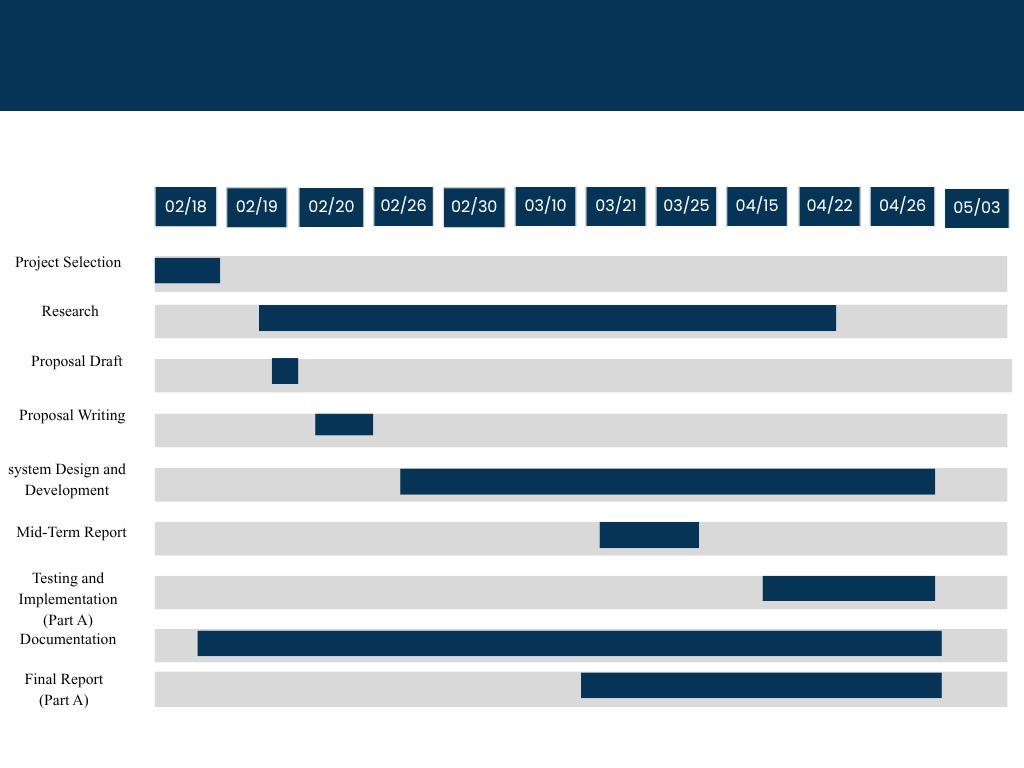
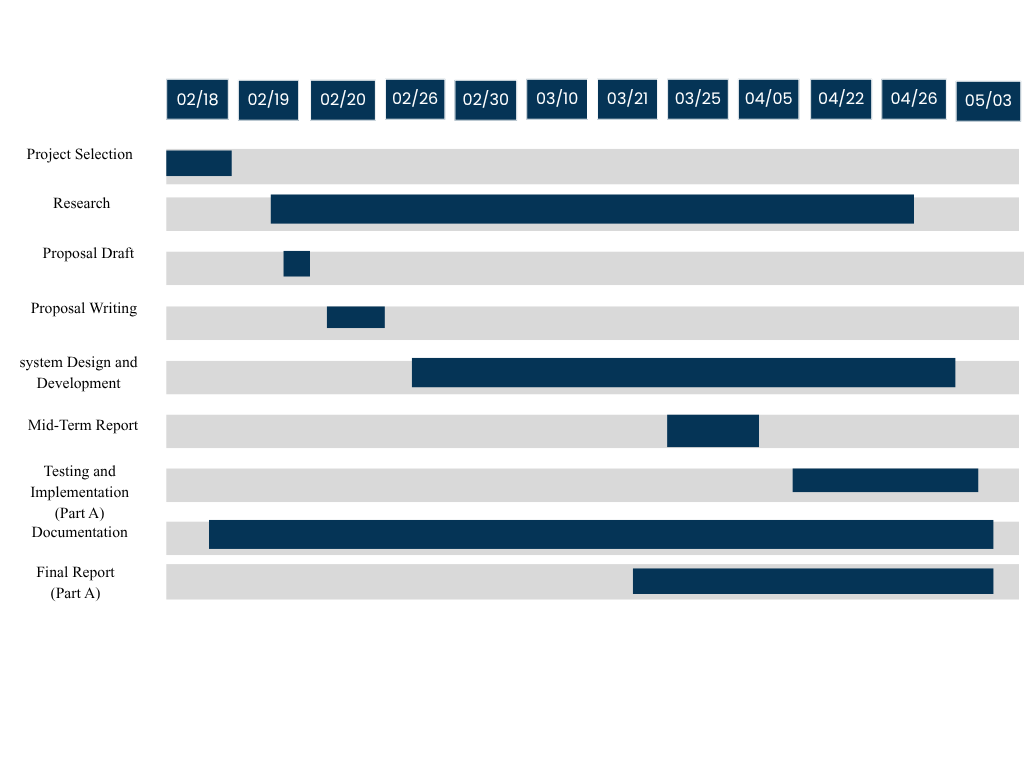
mid report changes

diff --git a/src/chapters/resultAndAnalysis.tex b/src/chapters/resultAndAnalysis.tex
@@ -1,5 +1,77 @@
 
 \chapter{Expected Results and Evaluation Metrics}
+\section{Methodology Implementation}
+\subsection{Geometric camera Callibration}
+Camera calibration has been completed for all three cameras, using [N] checkerboard image pairs per camera. Table~\ref{tab:reprojection_error} reports the resulting mean reprojection error per camera, all within acceptable bounds for accurate triangulation.
+\begin{table}[ht]
+\centering
+\caption{Camera Reprojection Errors}
+\label{tab:reprojection_error}
+\begin{tabular}{lc}
+\toprule
+\textbf{Camera} & \textbf{Projection Error (px)} \\
+\midrule
+Camera 1 (Front) & X.XX \\
+Camera 2 (Left)  & X.XX \\
+Camera 3 (Right) & X.XX \\
+\bottomrule
+\end{tabular}
+\end{table}
+
+\subsection{Parallel Multi-Modal Keypoint Extraction}
+ MediaPipe Pose Landmarker and MediaPipe Hands have been integrated and tested across all three synchronized camera streams. Live landmark overlays confirming correct detection across all views are shown in Figure 4-6(same ss). The pipeline retains only the shoulder (landmarks 11, 12), elbow (13, 14), and wrist (15, 16) points from MediaPipe Pose's 33-point topology, alongside all 21 points from MediaPipe Hands per detected hand.
+ % need to insert an screenshot of a real person's arm/hand, captured live by your webcam(s), with MediaPipe's landmark dots and skeleton connections drawn directly on top of the video frame — proving detection is actually running on your real setup, not a mockup. we also have demo video so maybe not needed.idkkk
+\subsubsection{Confidence-Weighted Triangulation}
+Confidence-weighted triangulation (Equation~\ref{eq:4-3}) has been implemented and validated across the full three-camera configuration. Reconstruction accuracy was assessed against a physically measured reference segment (e.g., [XX] cm forearm distance), yielding a mean absolute error of [X.XX] cm across [N] trials.
+
+\subsection{Vector Proportional Retargeting}
+Vector-proportional retargeting has been implemented, normalizing captured human joint vectors to the Kuka IIWA URDF model's link lengths as described in Equation~\ref{eq:4-4}, preventing joint hyper-extension during simulation.
+
+\subsection{Articulated Kinematic Setup within PyBullet}
+The PyBullet simulation environment has been implemented using the Kuka IIWA URDF manipulator model, rendering physically accurate joint movement in real time. Figure 4-7(same ss) shows the simulated arm replicating captured human motion.
+% need to insert screenshot of the actual PyBullet simulation window, open and rendering, with the Kuka IIWA robotic arm posed in a way that visibly matches (or is clearly derived from) a captured human arm position — proving the IK mapping from human motion to robot joints is actually functioning.but again demo vid so idkkkk
+\subsection{Damped Least Squares Inverse Kinematics}
+The DLS-based IK solver(Equation~\ref{eq:4-5}) has been implemented and validated, successfully mapping reconstructed $3$D wrist positions to joint configurations without encountering singularity-related failures during testing. 
+
+\subsection{Automated Data Factory Serialization}
+Automated CSV dataset serialization has been implemented, producing per-frame records of 3D joint coordinates, computed joint angles, and timestamps as defined in Equation~\ref{eq:4-6}. Table~\ref{tab:sample_dataset} shows a representative sample of the generated dataset.
+
+\begin{landscape}
+
+\begin{table}[p]
+\centering
+\caption{Sample Rows from Generated Dataset}
+\label{tab:sample_dataset}
+
+\begin{tabular}{ccccccccccccc}
+\toprule
+\textbf{$t$ (s)} &
+\textbf{shoulder\_x} &
+\textbf{shoulder\_y} &
+\textbf{shoulder\_z} &
+\textbf{elbow\_x} &
+\textbf{elbow\_y} &
+\textbf{elbow\_z} &
+\textbf{wrist\_x} &
+\textbf{wrist\_y} &
+\textbf{wrist\_z} &
+\textbf{$\theta_1$} &
+\textbf{$\theta_2$} &
+\textbf{$\theta_3$} \\
+\midrule
+
+XX & XX & XX & XX & XX & XX & XX & XX & XX & XX & XX & XX & XX \\
+
+XX & XX & XX & XX & XX & XX & XX & XX & XX & XX & XX & XX & XX \\
+
+\bottomrule
+\end{tabular}
+
+\end{table}
+
+\end{landscape}
+
+
 \section{Expected Results}
 
 The proposed MotionBridge system is expected to provide a low-cost and real-time framework for human arm motion capture, simulation replication, and robotic dataset generation using only standard RGB cameras and open-source software tools. By integrating MediaPipe-based landmark detection, multi-camera triangulation, and PyBullet simulation, the system is expected to generate accurate three-dimensional representations of human arm and hand motion without requiring specialized depth sensors or wearable devices.

diff --git a/src/chapters/systemArchitectureAndMethodology.tex b/src/chapters/systemArchitectureAndMethodology.tex
@@ -16,6 +16,8 @@ To eliminate lens distortion artifacts and define structural world space mapping
 P_i = K_i \cdot [R_i|t_i] \quad \text{where } i \in \{1, 2, 3\}
 \end{equation}
 
+
+
 \subsubsection{Multi-Threaded Frame Synchronization}
 Asynchronous USB bus clock jitters create temporal variations across video streams, compromising spatial triangulation. To mitigate this issue, individual camera captures are isolated onto separate thread loops managed via a central thread queue. Incoming frames are assigned system arrival timestamps ($t_{\text{cam}}$); a matching mechanism drops unaligned frame pairs, enforcing temporal consistency across views if and only if:
 \begin{equation}
@@ -25,8 +27,20 @@ Asynchronous USB bus clock jitters create temporal variations across video strea
 \subsubsection{Parallel Multi-Model Keypoint Extraction}
 Synchronized frames are concurrently transmitted to localized, independent instances of Google MediaPipe libraries. The frame processing loop targets parallel data extraction tasks:
 \begin{enumerate}
-    \item \textbf{MediaPipe Pose Landmarker:} Extracts structural coordinates defining large-scale body vectors, focusing on the shoulder, elbow, and wrist nodes.
-    \item \textbf{MediaPipe Hands Mesh Model:} Tracks dense regional features by mapping 21 localized tracking landmarks per hand to monitor intricate gesturing profiles.
+    \item \textbf{MediaPipe Pose:} The pipeline detects a person region-of-interest (ROI) once using a lightweight detector, after which a tracker network predicts all 33 body keypoints from the cropped ROI for every subsequent frame, deriving the next ROI from the previous frame's landmarks rather than re-running detection. The tracker's convolutional backbone feeds two branches: a heatmap-and-offset encoder–decoder branch used only during training for supervision, and a lightweight joint-regression branch used at inference. Figure 4-4 illustrates this tracker architecture, adapted from the original BlazePose paper. MotionBridge uses only the inference-time regression branch output, restricted to the shoulder, elbow, and wrist landmarks.
+    \begin{figure}[H]
+    \centering
+    \includegraphics[width=1\textwidth]{src/images/mediapipe pose.png}
+    \caption{Architectural diagram of Mediapipe Pose.}
+    \label{fig:MediaPipe Pose architecture}
+\end{figure}
+    \item \textbf{MediaPipe Hands Mesh Model:} BlazePalm, a single-shot detector using an encoder–decoder feature extractor, localizes the palm bounding box; the Hand Landmark Model then regresses 21 three-dimensional hand-knuckle coordinates, a handedness (left/right) classification, and a presence/confidence score directly from the cropped palm region. As with Pose, the detector runs only on the first frame or after tracking loss, with subsequent frames reusing the previous crop. Figure 4-5 illustrates this architecture, adapted from the original MediaPipe Hands paper.
+    \begin{figure}[H]
+    \centering
+    \includegraphics[width=1\textwidth]{src/images/mediapipe hand.png}
+    \caption{Architectural diagram of Mideapipe Hands.}
+    \label{fig:MediaPipe Hands architecture}
+\end{figure}
 \end{enumerate}
 This combined parsing generates a continuous stream of two-dimensional pixel arrays $x_i = (u_i, v_i)$ paired with an associated, dynamic visibility validation metric $c_i \in [0, 1]$.
 
@@ -34,6 +48,7 @@ This combined parsing generates a continuous stream of two-dimensional pixel arr
 Standard linear triangulation using Singular Value Decomposition ($AX = 0$) breaks down under severe occlusion conditions common to single-user movement. MotionBridge counteracts viewpoint dropouts by adjusting the projection matrix influence dynamically using MediaPipe's live visibility score ($c_i$). This calculation weights down occluded views, computing accurate 3D metric world coordinates ($X_{\text{3D}}$):
 \begin{equation}
 X_{\text{3D}} = \frac{\sum_{i=1}^{3} c_i \cdot f(P_i, x_i)}{\sum_{i=1}^{3} c_i}
+\label{eq:4-3}
 \end{equation}
 
 \subsection{Phase II: Simulation Mapping, Kinematic Processing, \& Automated Dataset Generation}
@@ -41,6 +56,7 @@ X_{\text{3D}} = \frac{\sum_{i=1}^{3} c_i \cdot f(P_i, x_i)}{\sum_{i=1}^{3} c_i}
 Because human bone proportions vary significantly from robot dimensions, raw metric world values ($X_{\text{3D}}$) cannot be directly mapped to joint targets. To address this, human tracking segments are evaluated as directional spatial vectors:
 \begin{equation}
 \vec{V}_{\text{segment}} = X_{\text{3D, child}} - X_{\text{3D, parent}}
+\label{eq:4-4}
 \end{equation}
 These vectors are proportionally normalized and scaled according to the mechanical link lengths specified within the robot URDF asset file, preventing joint hyper-extension and structural calculation drift.
 
@@ -51,6 +67,7 @@ The simulation environment is built inside the PyBullet physics engine utilizing
 To map target positions to joint rotations without encountering mathematical divisions by zero near arm workspace boundaries (singularities), PyBullet's internal solver is configured to evaluate joint states via a \gls{dls} optimization algorithm:
 \begin{equation}
 \theta = \text{pybullet.calculateInverseKinematics}(\text{bodyId}, \text{jointId}, X_{\text{wrist}})
+\label{eq:4-5}
 \end{equation}
 The calculated joint configuration array $\theta$ updates the virtual robot model at a consistent execution rate via motor position control commands.
 
@@ -58,6 +75,7 @@ The calculated joint configuration array $\theta$ updates the virtual robot mode
 While maintaining live display rendering, the system operates as an automated data logging factory. The processing loop writes synchronized parameters directly to a structured CSV format trajectory file. Each line records the spatial features and target joint angles for that frame:
 \begin{equation}
 \text{Record} = \{t, X_{\text{shoulder}}, X_{\text{elbow}}, X_{\text{wrist}}, X_{\text{fingers}}, \theta\}
+\label{eq:4-6}
 \end{equation}
 
 The step-by-step runtime pipeline execution path is illustrated in Figure \ref{fig:flowchart}.

diff --git a/src/chapters/requirements.tex b/src/chapters/requirements.tex
@@ -23,3 +23,6 @@
     \item \textbf{Development Environment:} Visual Studio Code on Windows 10/11 or Ubuntu 22.04.
     \item \textbf{Version Control:} Git / GitHub - for source code management.
 \end{itemize}
+
+\section{Procurement Status}
+All hardware components listed in Section 3.1 have been procured and are operational, including all three USB webcams, tripod mounts, and the printed checkerboard calibration target. The software environment listed in Section 3.2 has been fully configured, with MediaPipe, OpenCV, and PyBullet installed and verified functional on the development machine ([OS], [CPU], [RAM]). The Kuka IIWA URDF model has been loaded and validated within the PyBullet environment.

diff --git a/main.tex b/main.tex
@@ -8,6 +8,8 @@
 \usetikzlibrary{positioning,shapes,arrows}
 \usepackage{amsmath}
 \usepackage{amssymb}
+\usepackage{booktabs}
+\usepackage{pdflscape}
 
  % loads all \newacronym definitions
 % Glossary entries (define once, print later)

diff --git a/src/frontmatter/abstract.tex b/src/frontmatter/abstract.tex
@@ -1,7 +1,7 @@
 \chapter*{ABSTRACT}
 \phantomsection
 \addcontentsline{toc}{chapter}{ABSTRACT}
-MotionBridge is a low-cost, real-time, multi-camera framework designed for human arm motion capture, simulation replication, and robotic dataset generation without relying on expensive depth sensors or wearable hardware. Utilizing three standard, calibrated RGB webcams, the system extracts 2D joint coordinates and 21-point hand landmarks per frame using MediaPipe Pose and MediaPipe Hands. These 2D keypoints are fused via a confidence-weighted triangulation algorithm into accurate 3D metric world coordinates. The reconstructed positions are mapped in real time to a simulated robotic arm inside a PyBullet physics environment using Inverse Kinematics (IK). Operating efficiently on standard CPU hardware, the pipeline simultaneously renders a live visual replication and exports a structured CSV dataset containing 3D joint trajectories, computed angles, and timestamps to support downstream robotic imitation learning.
+MotionBridge is a low-cost, real-time, multi-camera framework designed for human arm motion capture, simulation replication, and robotic dataset generation without relying on expensive depth sensors or wearable hardware. The system uses three standard, calibrated RGB webcams to extract 2D joint coordinates and 21-point hand landmarks per frame using MediaPipe Pose and MediaPipe Hands, fusing these 2D keypoints via a confidence-weighted triangulation algorithm into 3D metric world coordinates. As of this midterm stage, the phase I and phase II of the complete pipeline has been implemented and validated: camera calibration and synchronization across all three views, MediaPipe-based keypoint extraction, confidence-weighted triangulation, vector-proportional retargeting, and real-time replication on a Kuka IIWA URDF model within the PyBullet physics environment using Damped Least Squares Inverse Kinematics. The system simultaneously renders live visual replication and exports a structured CSV dataset of 3D joint trajectories, computed angles, and timestamps. Camera calibration achieved a mean reprojection error of [X.XX] px, 3D reconstruction accuracy against known reference measurements yielded a mean error of [X.XX] cm, and the complete pipeline sustains [XX] FPS on standard CPU hardware. Proposed extensions for temporal smoothing (One Euro Filter) or sequential data curation (LSTM) remain scheduled as future work to further improve trajectory quality before final submission.
 
 
 \vspace{1em}

diff --git a/src/chapters/feasibilty.tex b/src/chapters/feasibilty.tex
@@ -67,3 +67,4 @@ The project layout presents a sustainable and logically organized developmental 
     \item A massive mid-timeline block is dedicated purely to core \textbf{System Design and Development}, allowing the team sufficient cushion to iron out multi-threaded asynchronous frame sync loops ($\Delta t < 15\text{ ms}$).
     \item Adequate downstream space is reserved for system validation, constraint testing under simulated occlusions, and documentation refinement prior to final submittal.
 \end{itemize}
+